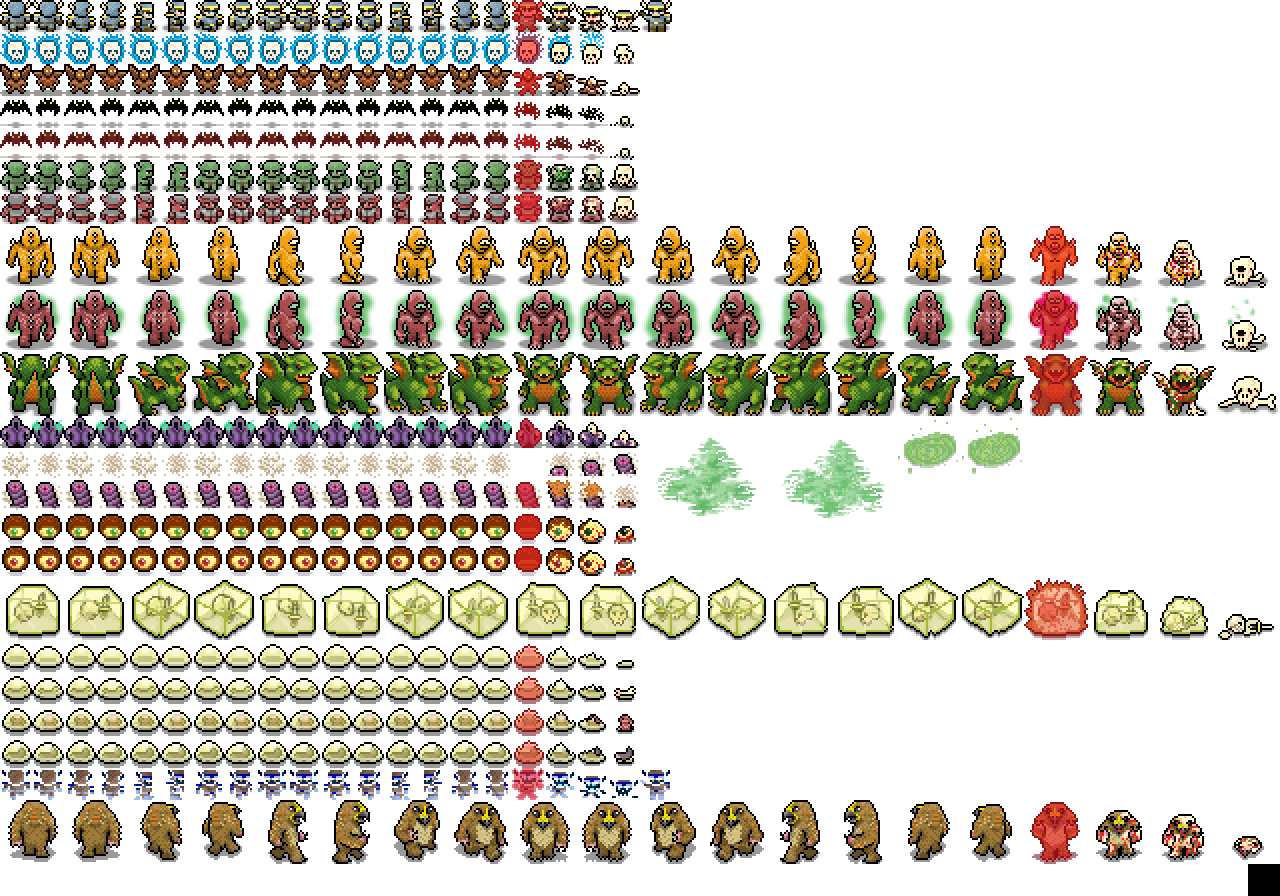
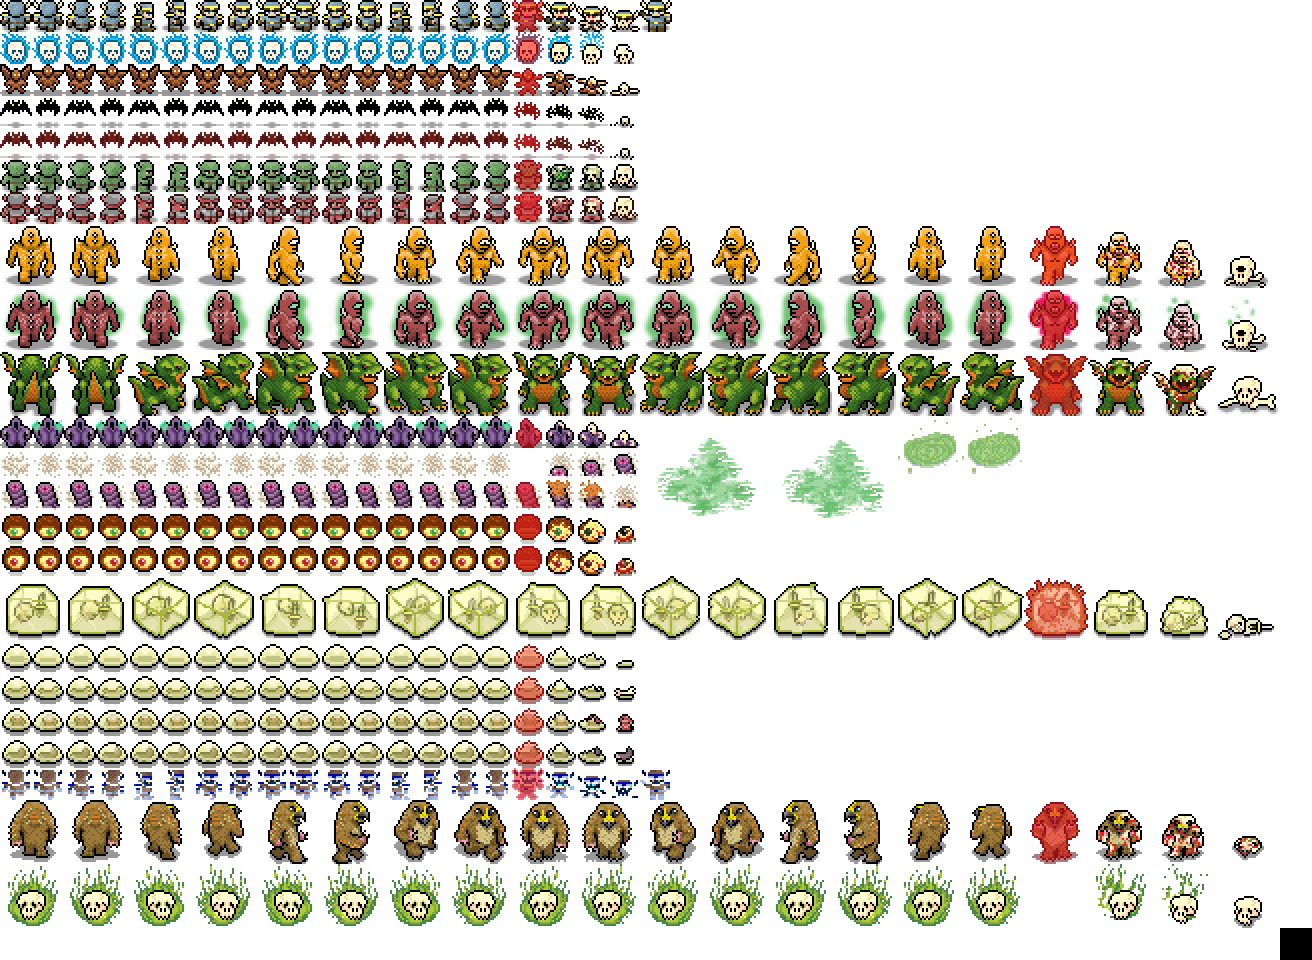
huge skull is in. ehhh he's not great, but is additional content

diff --git a/htdocs/js/object_types.js b/htdocs/js/object_types.js
@@ -583,7 +583,7 @@ o.flaming_skull = {
 	],
 	
 	onInit: function () {
-		switch (horde.randomRange(1, 3)) {
+		switch (horde.randomRange(1, 2)) {
 			case 1:
 				this.speed *= 0.5;
 				this.animDelay *= 0.5;
@@ -592,8 +592,64 @@ o.flaming_skull = {
 				this.speed *= 0.75;
 				this.animDelay *= 0.75;
 				break;
-			case 3:
-				// Nothing
+		}
+	},
+	
+	onUpdate: function (elapsed, engine) {
+		if (!this.setDir && this.position.y >= 50) {
+			var d = this.direction.clone();
+			d.x = Math.random();
+			if (Math.random() >= 0.5) {
+				d.x *= -1;
+			}
+			this.setDirection(d);
+			this.setDir = true;
+		}
+		return "shoot";
+	}
+	
+};
+
+o.huge_skull = {
+	
+	role: "monster",
+	team: 1,
+	badass: true,
+	
+	speed: 150,
+	hitPoints: 200,
+	damage: 20,
+	worth: 0,
+	
+	spriteSheet: "characters",
+	spriteY: 864,
+	animated: true,
+	size: new horde.Size(64, 64),
+	
+	setDir: false,
+
+	soundDamage: "skull_damage",
+	soundDies: "skull_dies",
+	
+	weapons: [
+		{type: "e_static_green_fire", count: null}
+	],
+	
+	lootTable: [
+		{type: null, weight: 4},
+		{type: "WEAPON_DROP", weight: 3},
+		{type: "item_chest", weight: 3}
+	],
+	
+	onInit: function () {
+		switch (horde.randomRange(1, 2)) {
+			case 1:
+				this.speed *= 0.5;
+				this.animDelay *= 0.5;
+				break;
+			case 2:
+				this.speed *= 0.75;
+				this.animDelay *= 0.75;
 				break;
 		}
 	},
@@ -2499,6 +2555,24 @@ o.e_static_blue_fire = {
 	rotate: true,
 	rotateSpeed: 100,
 	ttl: 1000,
+	bounce: false,
+	drawIndex: 0,
+	damageType: "magic"
+};
+
+o.e_static_green_fire = {
+	role: "projectile",
+	cooldown: 100,
+	speed: 0,
+	hitPoints: Infinity,
+	damage: 10,
+	size: new horde.Size(64, 64),
+	spriteSheet: "objects",
+	spriteX: 64,
+	spriteY: 192,
+	rotate: true,
+	rotateSpeed: 150,
+	ttl: 2000,
 	bounce: false,
 	drawIndex: 0,
 	damageType: "magic"

diff --git a/htdocs/js/engine.js b/htdocs/js/engine.js
@@ -540,7 +540,7 @@ proto.initWaves = function horde_Engine_proto_initWaves () {
 	
 	// Wave testing code...
 	/*
-	var testWave = 8;
+	var testWave = 13;
 	this.waveHack = true;
 	this.currentWaveId = (testWave - 2);
 	*/
